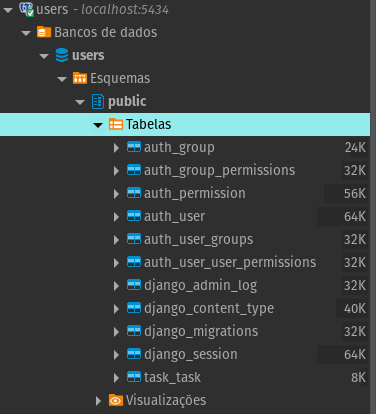
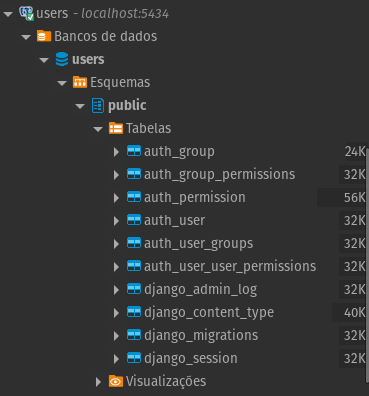
fix database router

Changed region(s): [[0.0, 0.0, 1.0, 1.0]]

diff --git a/multiple_database/settings.py b/multiple_database/settings.py
@@ -83,7 +83,10 @@ DATABASES = {
     'auth_db': config('DATABASE_URL_USERS', cast=parse_database),
 }
 
-DATABASE_ROUTERS = ['multiple_database.routers.db_routers.AuthRouter']
+DATABASE_ROUTERS = [
+    'multiple_database.routers.db_routers.AuthRouter',
+    'multiple_database.routers.db_routers.TarefaRouter',
+]
 
 # Password validation
 # https://docs.djangoproject.com/en/4.1/ref/settings/#auth-password-validators
